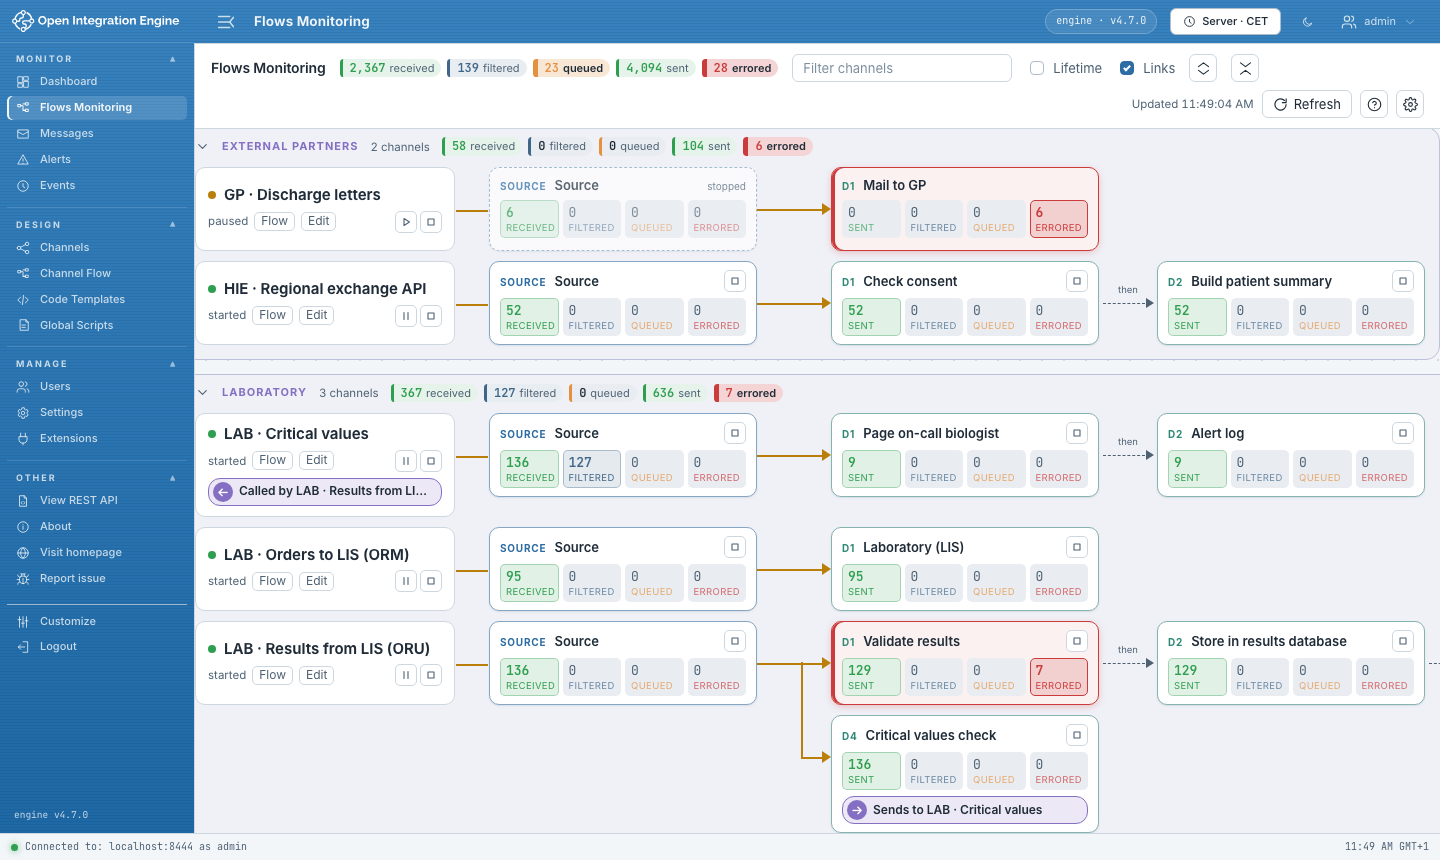
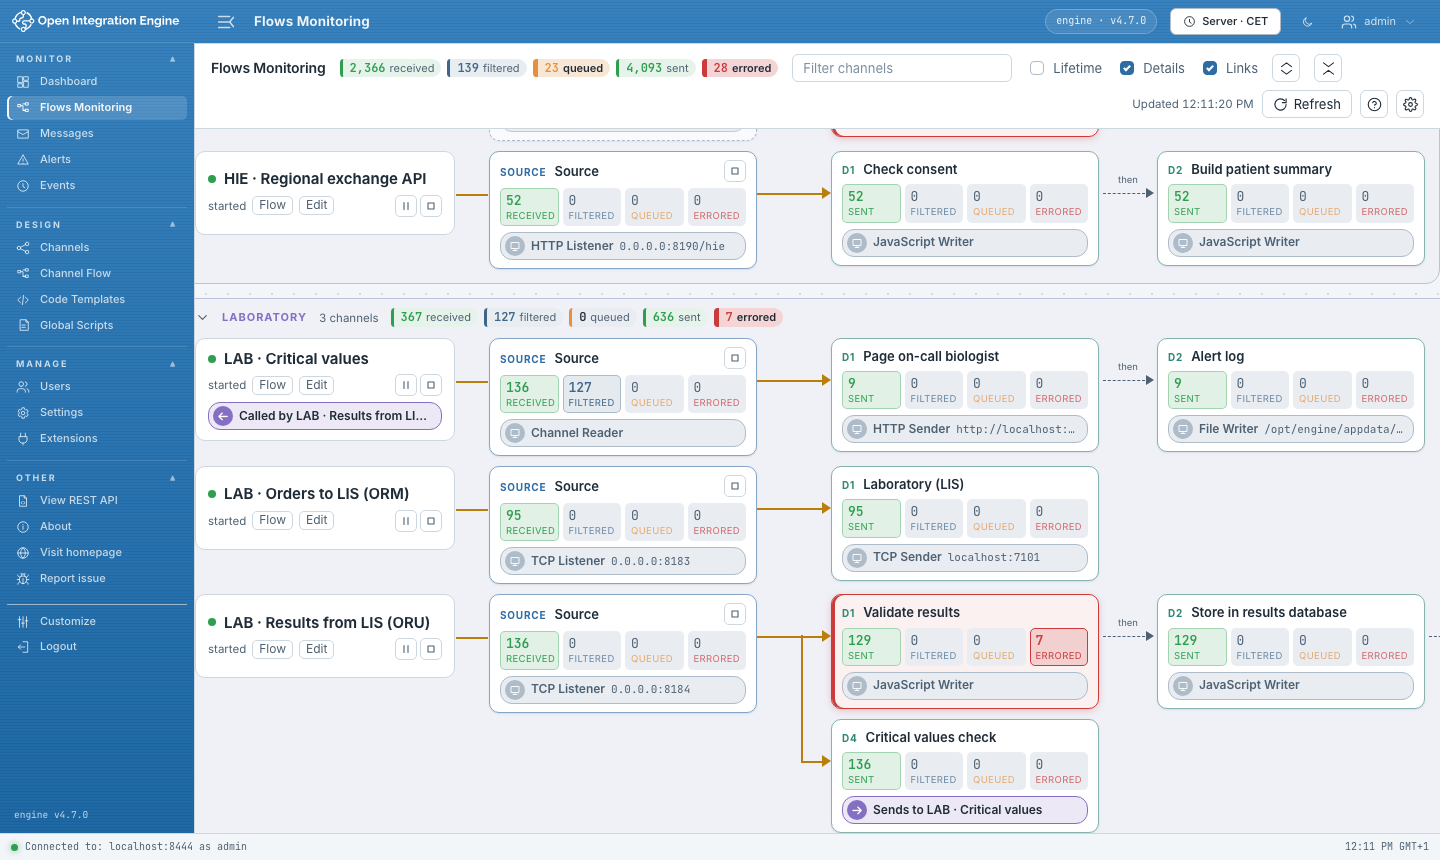
Flows Monitoring : type et adresse de chaque connecteur (option Details)
- ligne grise dans chaque carte, du même dessin que les liens violets : type du
  connecteur, puis adresse en chasse fixe ; le lien violet en tient lieu pour un
  Channel Writer
- lue dans la configuration des canaux (droit viewChannels), adresse commune avec
  Channel Flow (shared/model/endpoint.js)
- aide, guide, plan, CHANGELOG, tests et captures à jour

diff --git a/src/flows-monitoring/model.js b/src/flows-monitoring/model.js
@@ -4,6 +4,7 @@
 import { asList, destinationsOf, isTrue } from "../shared/model/xstream.js";
 import { splitChains } from "../shared/model/chains.js";
 import { addStats, emptyStats, statsOf } from "../shared/model/stats.js";
+import { endpointOf } from "../shared/model/endpoint.js";
 
 export const DEFAULT_GROUP_ID = "default";
 
@@ -41,9 +42,24 @@ export function channelLinks(channels) {
   return { outgoing, incoming };
 }
 
+/**
+ * Type and address of each connector of a channel (metaDataId → details), read
+ * from its configuration: dashboard statuses do not carry them.
+ * @returns {Map<number, { transport: string, endpoint: string }>}
+ */
+export function connectorDetails(channel) {
+  const source = channel?.sourceConnector;
+  const connectors = [...(source ? [{ ...source, metaDataId: 0 }] : []), ...destinationsOf(channel)];
+  return new Map(connectors.map(connector => [Number(connector.metaDataId),
+    { transport: connector.transportName || "", endpoint: endpointOf(connector) }]));
+}
+
 /** A connector card: what it is, its state and its counters. */
-function connectorOf(status, lifetime, fallbackName) {
+function connectorOf(status, lifetime, fallbackName, details) {
+  const own = details?.get(Number(status?.metaDataId ?? 0));
   return {
+    transport: own?.transport ?? "",
+    endpoint: own?.endpoint ?? "",
     metaDataId: Number(status?.metaDataId ?? 0),
     name: status?.name || fallbackName,
     state: status?.state ?? null,
@@ -58,9 +74,10 @@ function connectorOf(status, lifetime, fallbackName) {
  * channels), the chains are unknown: the destinations stay in one row, in order,
  * and `chainsKnown` is false.
  * @param {any} status dashboard status of the channel
- * @param {{ lifetime?: boolean, waits?: Map<number, boolean>, links?: { outgoing: Map<string, Map<number, string>>, incoming: Map<string, any[]> } }} [options]
+ * @param {{ lifetime?: boolean, waits?: Map<number, boolean>, links?: { outgoing: Map<string, Map<number, string>>, incoming: Map<string, any[]> },
+ *          details?: Map<number, { transport: string, endpoint: string }> }} [options]
  */
-export function channelLane(status, { lifetime = false, waits, links = { outgoing: new Map(), incoming: new Map() } } = {}) {
+export function channelLane(status, { lifetime = false, waits, links = { outgoing: new Map(), incoming: new Map() }, details } = {}) {
   const children = asList(status.childStatuses, "dashboardStatus");
   const sourceStatus = children.find(child => child.statusType === "SOURCE_CONNECTOR" || Number(child.metaDataId) === 0);
   const destinations = children.filter(child => child !== sourceStatus)
@@ -76,9 +93,9 @@ export function channelLane(status, { lifetime = false, waits, links = { outgoin
     state: status.state,
     chainsKnown,
     stats: statsOf(status, lifetime),
-    source: connectorOf(sourceStatus, lifetime, "Source"),
+    source: connectorOf(sourceStatus, lifetime, "Source", details),
     chains: chains.map(chain => chain.map(child => ({
-      ...connectorOf(child, lifetime, `Destination ${child.metaDataId}`),
+      ...connectorOf(child, lifetime, `Destination ${child.metaDataId}`, details),
       linkTo: links.outgoing.get(String(status.channelId))?.get(Number(child.metaDataId)) ?? null
     }))),
     calledBy: links.incoming.get(String(status.channelId)) ?? []
@@ -92,12 +109,12 @@ const byName = (a, b) => String(a.name).localeCompare(String(b.name));
  * under the default group. Empty groups are left out.
  * @param {any[]} statuses
  * @param {any[]} groups channel groups ({ id, name, channels })
- * @param {{ filter?: string, lifetime?: boolean, waits?: Map<string, Map<number, boolean>>, links?: any, defaultGroupName: string }} options
+ * @param {{ filter?: string, lifetime?: boolean, waits?: Map<string, Map<number, boolean>>, links?: any, details?: Map<string, any>, defaultGroupName: string }} options
  */
-export function groupLanes(statuses, groups, { filter = "", lifetime = false, waits = new Map(), links, defaultGroupName }) {
+export function groupLanes(statuses, groups, { filter = "", lifetime = false, waits = new Map(), links, details = new Map(), defaultGroupName }) {
   const needle = filter.trim().toLowerCase();
   const lanes = statuses
-    .map(status => channelLane(status, { lifetime, waits: waits.get(String(status.channelId)), links }))
+    .map(status => channelLane(status, { lifetime, waits: waits.get(String(status.channelId)), links, details: details.get(String(status.channelId)) }))
     .filter(lane => !needle || lane.name.toLowerCase().includes(needle))
     .sort(byName);
   const laneById = new Map(lanes.map(lane => [lane.id, lane]));

diff --git a/src/flows-monitoring/FlowsMonitoringView.jsx b/src/flows-monitoring/FlowsMonitoringView.jsx
@@ -26,8 +26,8 @@ const SCROLL_KEY = "flows.scroll";
 
 export function FlowsMonitoringView() {
   const [settings] = useSettings();
-  const { statuses, groups, groupsReadable, waits, links, error, updated, refresh, reloadCounters } = useStatuses(settings.refreshSeconds);
-  const [view, setView] = useState(() => readSession(SESSION_KEY, { filter: "", lifetime: false, toggled: {}, links: true }));
+  const { statuses, groups, groupsReadable, waits, links, details, error, updated, refresh, reloadCounters } = useStatuses(settings.refreshSeconds);
+  const [view, setView] = useState(() => readSession(SESSION_KEY, { filter: "", lifetime: false, toggled: {}, links: true, details: true }));
   const body = useRef(null);
   const restored = useRef(false);
   const scrollTimer = useRef(0);
@@ -39,10 +39,10 @@ export function FlowsMonitoringView() {
 
   const grouped = useMemo(() => statuses
     ? groupLanes(statuses, groups, {
-      filter: view.filter, lifetime: view.lifetime, waits, links,
+      filter: view.filter, lifetime: view.lifetime, waits, links, details,
       defaultGroupName: t(groupsReadable ? "flows.group.default" : "flows.group.all")
     })
-    : [], [statuses, groups, groupsReadable, waits, links, view.filter, view.lifetime]);
+    : [], [statuses, groups, groupsReadable, waits, links, details, view.filter, view.lifetime]);
   const names = useMemo(() => new Map((statuses ?? []).map(status => [String(status.channelId), status.name])), [statuses]);
   const open = openGroups(grouped, view.toggled, settings.expandedGroups, view.filter.trim() !== "");
   const totals = grouped.reduce((sum, group) => addStats(sum, group.stats), emptyStats());
@@ -113,6 +113,7 @@ export function FlowsMonitoringView() {
     openFlow: channelId => navigate(channelFlowPath(channelId)),
     openEditor: channelId => navigate(channelEditorPath(channelId)),
     showLinks: view.links,
+    showDetails: view.details,
     canControl: command => can(COMMAND_PERMISSION[command]),
     isBusy: target => busy.has(busyKey(target)),
     control,
@@ -138,6 +139,10 @@ export function FlowsMonitoringView() {
         <label className="ofu-check" title={t("flows.lifetimeTitle")}>
           <input type="checkbox" checked={view.lifetime} onChange={event => update({ lifetime: event.target.checked })} />
           {t("flows.lifetime")}
+        </label>
+        <label className="ofu-check" title={t("flows.detailsTitle")}>
+          <input type="checkbox" checked={view.details} onChange={event => update({ details: event.target.checked })} />
+          {t("flows.details")}
         </label>
         <label className="ofu-check" title={t("flows.linksTitle")}>
           <input type="checkbox" checked={view.links} onChange={event => update({ links: event.target.checked })} />

diff --git a/src/flows-monitoring/useStatuses.js b/src/flows-monitoring/useStatuses.js
@@ -5,15 +5,15 @@
 import { useCallback, useEffect, useState } from "../host/react.js";
 import { channelConfigurations, channelGroups, channelStatuses } from "../host/api.js";
 import { asList } from "../shared/model/xstream.js";
-import { channelLinks, waitsOf } from "./model.js";
+import { channelLinks, connectorDetails, waitsOf } from "./model.js";
 
 /**
  * @param {number} refreshSeconds 0 = only on demand
- * @returns {{ statuses: any[] | null, groups: any[], groupsReadable: boolean, waits: Map<string, Map<number, boolean>>, links: any,
+ * @returns {{ statuses: any[] | null, groups: any[], groupsReadable: boolean, waits: Map<string, Map<number, boolean>>, links: any, details: Map<string, any>,
  *             error: string, updated: Date | null, refresh: () => void, reloadCounters: () => Promise<void> }}
  */
 export function useStatuses(refreshSeconds) {
-  const [data, setData] = useState({ statuses: null, groups: [], groupsReadable: true, waits: new Map(), links: channelLinks([]) });
+  const [data, setData] = useState({ statuses: null, groups: [], groupsReadable: true, waits: new Map(), links: channelLinks([]), details: new Map() });
   const [error, setError] = useState("");
   const [updated, setUpdated] = useState(null);
 
@@ -23,18 +23,21 @@ export function useStatuses(refreshSeconds) {
       const list = asList(statuses, "dashboardStatus");
       let waits = null;
       let links = null;
+      let details = null;
       if (withStructure && list.length) {
         // Without the right to read channels, chains and links stay unknown.
         const channels = await channelConfigurations(list.map(status => status.channelId)).catch(() => []);
         waits = new Map(channels.map(channel => [String(channel.id), waitsOf(channel)]));
         links = channelLinks(channels);
+        details = new Map(channels.map(channel => [String(channel.id), connectorDetails(channel)]));
       }
       setData(previous => ({
         statuses: list,
         groups: withStructure ? asList(groups ?? [], "channelGroup") : previous.groups,
         groupsReadable: withStructure ? groups !== null : previous.groupsReadable,
         waits: waits ?? previous.waits,
-        links: links ?? previous.links
+        links: links ?? previous.links,
+        details: details ?? previous.details
       }));
       setError("");
       setUpdated(new Date());

diff --git a/src/flows-monitoring/ConnectorCard.jsx b/src/flows-monitoring/ConnectorCard.jsx
@@ -6,6 +6,7 @@ import { DESTINATION_COUNTERS, SOURCE_COUNTERS } from "../shared/model/stats.js"
 import { ConnectorCounters } from "./Counters.jsx";
 import { ControlButtons } from "./ControlButtons.jsx";
 import { connectorCommands } from "./controls.js";
+import { Icon } from "../shared/ui/Icon.jsx";
 
 /**
  * @param {{ lane: any, connector: any, isSource: boolean, actions: any }} props
@@ -23,10 +24,12 @@ export function ConnectorCard({ lane, connector, isSource, actions }) {
     </>
   );
   const linked = actions.showLinks && connector.linkTo;
+  // The link already says where a Channel Writer sends: no detail line then.
+  const detailed = !linked && actions.showDetails && connector.transport;
   return (
     <div className={cx("ofu-card", isSource ? "ofu-card--source" : "ofu-card--destination",
       connector.stats.ERROR > 0 ? "ofu-card--error" : connector.stats.QUEUED > 0 && "ofu-card--queued",
-      stopped && "ofu-card--stopped", linked && "ofu-card--linked")}>
+      stopped && "ofu-card--stopped", (linked || detailed) && "ofu-card--extended")}>
       <div className="ofu-card__head">
         {open
           ? <button type="button" className="ofu-card__title" title={t("flows.card.openMessages", { where })} onClick={open}>{title}</button>
@@ -38,7 +41,20 @@ export function ConnectorCard({ lane, connector, isSource, actions }) {
         where={where} onOpen={open} />
       {/* Inside the card: outside, the arrows of parallel chains would cross it. */}
       {linked && <ChannelLink channelId={connector.linkTo} direction="to" actions={actions} />}
+      {detailed && <ConnectorDetail connector={connector} />}
     </div>
+  );
+}
+
+/** The connector's type and address, on a grey line in the style of the links. */
+function ConnectorDetail({ connector }) {
+  const text = connector.endpoint ? `${connector.transport} · ${connector.endpoint}` : connector.transport;
+  return (
+    <span className="ofu-detail" title={text}>
+      <span className="ofu-detail__icon" aria-hidden="true"><Icon name="connector" /></span>
+      <span className="ofu-detail__type">{connector.transport}</span>
+      {connector.endpoint && <span className="ofu-detail__address">{connector.endpoint}</span>}
+    </span>
   );
 }
 

diff --git a/test/unit/flows-monitoring.test.js b/test/unit/flows-monitoring.test.js
@@ -1,7 +1,7 @@
 // SPDX-License-Identifier: MPL-2.0
 import { test } from "node:test";
 import assert from "node:assert/strict";
-import { channelLane, channelLinks, groupLanes, openGroups, waitsOf } from "../../src/flows-monitoring/model.js";
+import { channelLane, channelLinks, connectorDetails, groupLanes, openGroups, waitsOf } from "../../src/flows-monitoring/model.js";
 
 const connector = (metaDataId, name, received = 0) => ({
   metaDataId, name, state: "STARTED", statusType: metaDataId === 0 ? "SOURCE_CONNECTOR" : "DESTINATION_CONNECTOR",
@@ -65,3 +65,15 @@ test("Channel Writer destinations link channels, both ways", () => {
   assert.deepEqual(channelLane(status("b", "B", 1), { links }).calledBy, [{ channelId: "a", metaDataId: 1 }]);
 });
 
+
+test("each card knows its connector's type and address, from the configuration", () => {
+  const details = connectorDetails({
+    sourceConnector: { transportName: "TCP Listener", properties: { listenerConnectorProperties: { host: "0.0.0.0", port: "8181" } } },
+    destinationConnectors: { connector: [{ metaDataId: 1, transportName: "HTTP Sender", properties: { host: "http://ehr.example/api?token=x" } }] }
+  });
+  assert.deepEqual([...details], [[0, { transport: "TCP Listener", endpoint: "0.0.0.0:8181" }], [1, { transport: "HTTP Sender", endpoint: "http://ehr.example/api" }]]);
+  const lane = channelLane(status("a", "A", 1), { waits: new Map(), details });
+  assert.equal(lane.source.transport, "TCP Listener");
+  assert.equal(lane.chains[0][0].endpoint, "http://ehr.example/api");
+  assert.equal(channelLane(status("a", "A", 1)).source.transport, "", "unknown without the configuration");
+});

diff --git a/src/channel-flow/model/flow-model.js b/src/channel-flow/model/flow-model.js
@@ -5,6 +5,9 @@
 // it opens. Texts are chosen by the components, not here.
 import { destinationsOf, isTrue } from "../../shared/model/xstream.js";
 import { splitChains } from "../../shared/model/chains.js";
+import { endpointOf } from "../../shared/model/endpoint.js";
+
+export { endpointOf };
 
 /** Short names of common step types, to keep step chips narrow. */
 const SHORT_TYPES = {
@@ -25,19 +28,6 @@ const SHORT_TYPES = {
 export function hasScript(value, preprocessor = false) {
   const trivia = "(?:\\s|//[^\\r\\n]*(?:\\r?\\n|$)|/\\*[\\s\\S]*?\\*/)*";
   return !new RegExp(`^${trivia}(?:return${preprocessor ? "(?:\\s+message)?" : ""}\\s*;?)?${trivia}$`).test(String(value || ""));
-}
-
-/** Where a connector listens or sends, without credentials or query string. */
-export function endpointOf(connector) {
-  const props = connector?.properties || {};
-  const listener = props.listenerConnectorProperties;
-  const host = listener?.host || props.remoteAddress || props.remoteHost || props.smtpHost
-    || props.locationURI || props.url || props.host || props.directory || "";
-  const port = listener?.port || props.remotePort || props.port || props.smtpPort;
-  let text = String(host).replace(/(\/\/)[^/@\s]+@/, "$1").split(/[?#]/)[0];
-  if (port && text && !/^\w+:\/\//.test(text)) text += `:${port}`;
-  if (props.contextPath && props.contextPath !== "/") text += `/${String(props.contextPath).replace(/^\//, "")}`;
-  return text === "none" ? "" : text;
 }
 
 const elementsOf = container => {

diff --git a/src/flows-monitoring/flows-monitoring.css b/src/flows-monitoring/flows-monitoring.css
@@ -242,8 +242,9 @@ button.ofu-channel__name:hover .ofu-channel__label {
 }
 
 /* Links between channels (option "Links") */
-/* A Channel Writer card holds its link on a third line; links stay inside their card. */
-.ofu-card.ofu-card--linked {
+/* A card may hold a third line: a link (violet) or the connector's type and
+   address (grey). It stays inside the card. */
+.ofu-card.ofu-card--extended {
   height: auto;
   min-height: var(--card-height);
 }
@@ -300,6 +301,52 @@ button.ofu-link:hover {
   border-style: dashed;
   color: var(--ofu-dim);
   font-weight: 400;
+}
+
+.ofu-detail {
+  display: inline-flex;
+  align-items: center;
+  gap: 6px;
+  max-width: 100%;
+  min-width: 0;
+  padding: 3px 10px 3px 4px;
+  border: 1.5px solid var(--ofu-line-strong);
+  border-radius: 12px;
+  background: var(--ofu-sunken);
+  color: var(--ofu-dim);
+  font-size: 12px;
+}
+
+.ofu-detail__icon {
+  flex: none;
+  display: inline-flex;
+  align-items: center;
+  justify-content: center;
+  width: 20px;
+  height: 20px;
+  border-radius: 50%;
+  background: var(--ofu-line-strong);
+  color: var(--ofu-surface);
+}
+
+.ofu-detail__icon .ofu-icon {
+  width: 12px;
+  height: 12px;
+}
+
+.ofu-detail__type {
+  flex: none;
+  font-weight: 600;
+  white-space: nowrap;
+}
+
+.ofu-detail__address {
+  min-width: 0;
+  overflow: hidden;
+  font-family: var(--ofu-mono);
+  font-size: 11px;
+  text-overflow: ellipsis;
+  white-space: nowrap;
 }
 
 .ofu-lane--highlighted .ofu-channel {

diff --git a/src/i18n/locales/en.js b/src/i18n/locales/en.js
@@ -77,6 +77,8 @@ export default {
     filter: "Filter channels",
     lifetime: "Lifetime",
     lifetimeTitle: "Counters since the channels were created, instead of since their statistics were last reset",
+    details: "Details",
+    detailsTitle: "Show each connector's type and address",
     links: "Links",
     linksTitle: "Show which channels send to which (Channel Writer → Channel Reader)",
     control: {
@@ -164,6 +166,7 @@ export default {
       then: "The next destination waits for the previous one (same chain).",
       parallel: "Chains receive the message in parallel.",
       links: "With Links: the channel a Channel Writer sends to (→), or the channels that call this one (←). A click shows that channel.",
+      details: "With Details: the connector's type and address.",
       counters: "Counters",
       status: {
         RECEIVED: "Received by the source, or sent by a destination.",

diff --git a/src/shared/model/endpoint.js b/src/shared/model/endpoint.js
@@ -1,0 +1,15 @@
+// SPDX-License-Identifier: MPL-2.0
+// The address of a connector, read from its configuration, for both screens.
+
+/** Where a connector listens or sends, without credentials or query string. */
+export function endpointOf(connector) {
+  const props = connector?.properties || {};
+  const listener = props.listenerConnectorProperties;
+  const host = listener?.host || props.remoteAddress || props.remoteHost || props.smtpHost
+    || props.locationURI || props.url || props.host || props.directory || "";
+  const port = listener?.port || props.remotePort || props.port || props.smtpPort;
+  let text = String(host).replace(/(\/\/)[^/@\s]+@/, "$1").split(/[?#]/)[0];
+  if (port && text && !/^\w+:\/\//.test(text)) text += `:${port}`;
+  if (props.contextPath && props.contextPath !== "/") text += `/${String(props.contextPath).replace(/^\//, "")}`;
+  return text === "none" ? "" : text;
+}

diff --git a/test/e2e/demo.test.js b/test/e2e/demo.test.js
@@ -34,6 +34,7 @@ describe("as admin", () => {
     assert.deepEqual(groups.map(name => name.toLowerCase()), ["billing", "external partners", "laboratory", "operations", "patient administration", "pharmacy", "radiology", "simulators"]);
     assert.equal(await page.locator(".ofu-group__head[aria-expanded=true]").count(), 1);
     assert.match(await page.locator(".ofu-toolbar .ofu-totals").innerText(), /[1-9][\d,]*\s+received/);
+    assert.match(await page.locator(".ofu-detail").first().innerText(), /HTTP Listener|TCP Listener|File Reader/, "connector details shown");
     await shot(page, "e2e-flows");
   });
 

diff --git a/src/flows-monitoring/FlowsHelp.jsx b/src/flows-monitoring/FlowsHelp.jsx
@@ -16,6 +16,7 @@ export function FlowsHelp() {
             <dt><Sample className="ofu-sample--then" /></dt><dd>{t("flows.help.then")}</dd>
             <dt><Sample className="ofu-sample--fork" /></dt><dd>{t("flows.help.parallel")}</dd>
             <dt><span className="ofu-link" aria-hidden="true">→</span></dt><dd>{t("flows.help.links")}</dd>
+            <dt><span className="ofu-detail" aria-hidden="true">·</span></dt><dd>{t("flows.help.details")}</dd>
           </dl>
           <h3>{t("flows.help.counters")}</h3>
           <dl className="ofu-legend">

diff --git a/doc/user-guide.md b/doc/user-guide.md
@@ -27,6 +27,10 @@ précédente.
   carte du canal appelé ceux qui l'appellent (*Called by*). Un clic ouvre le groupe du
   canal lié, y fait défiler la page et le met en évidence, même s'il est dans un
   autre groupe.
+- **Détails.** Avec l'option *Details* (cochée par défaut), chaque carte indique sur
+  une ligne grise le type du connecteur et son adresse (« HTTP Sender · http://… »).
+  Pour un *Channel Writer*, le lien violet en tient lieu. Il faut pouvoir lire les
+  canaux (`viewChannels`).
 - **Démarrer, mettre en pause, arrêter.** La carte du canal propose les commandes
   permises par son état : pause et arrêt s'il tourne, reprise et arrêt s'il est en
   pause, démarrage s'il est arrêté. Chaque connecteur d'un canal démarré ou en pause
@@ -139,7 +143,7 @@ Flow UI suit les droits de Web Admin :
 |---|---|
 | Flows Monitoring | `viewDashboard` |
 | Groupes dans Flows Monitoring et le sélecteur | `viewChannelGroups` (sinon une seule liste, *Groups hidden*) |
-| Chaînes de destinations et liens dans Flows Monitoring | `viewChannels` (sinon les destinations dans l'ordre, sans liens, *Chains hidden*) |
+| Chaînes, liens et détails des connecteurs dans Flows Monitoring | `viewChannels` (sinon les destinations dans l'ordre, sans liens ni détails, *Chains hidden*) |
 | Channel Flow | `viewChannels` |
 | Compteurs et noms cliquables vers Messages | `viewMessages` |
 | *Edit*, ouverture des éditeurs, `+` | `manageChannels` |
